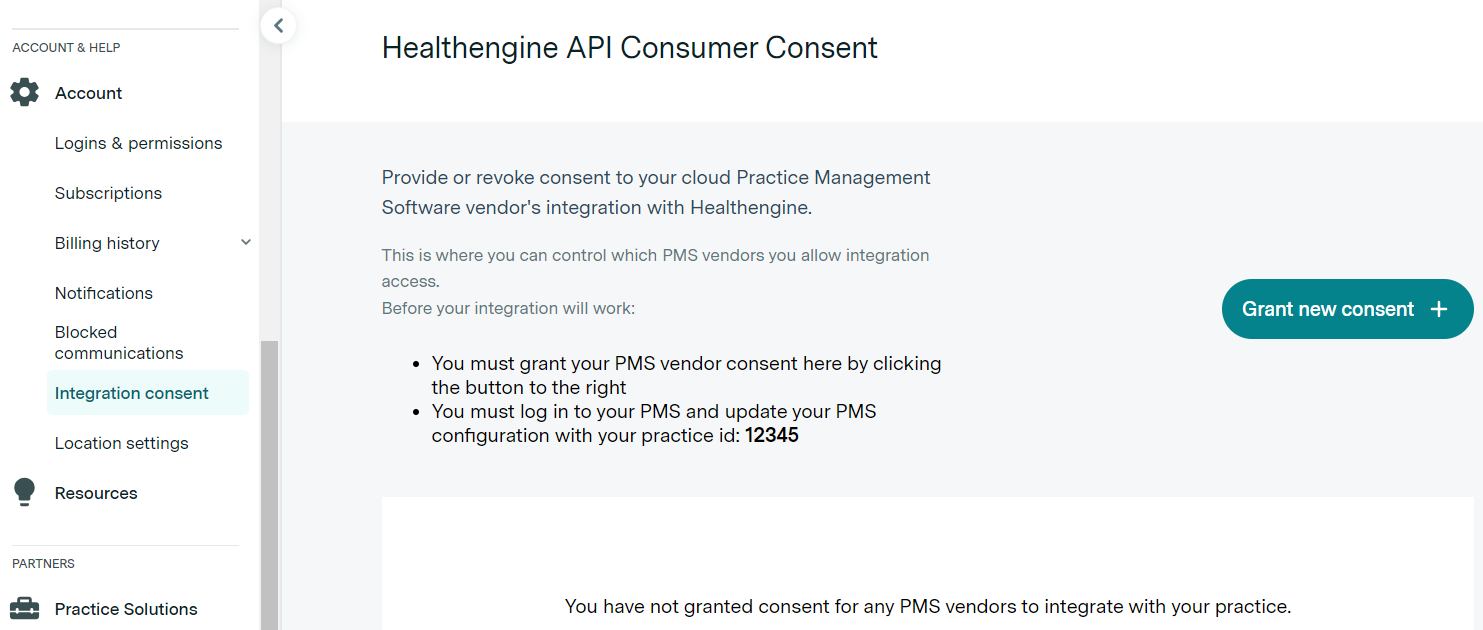
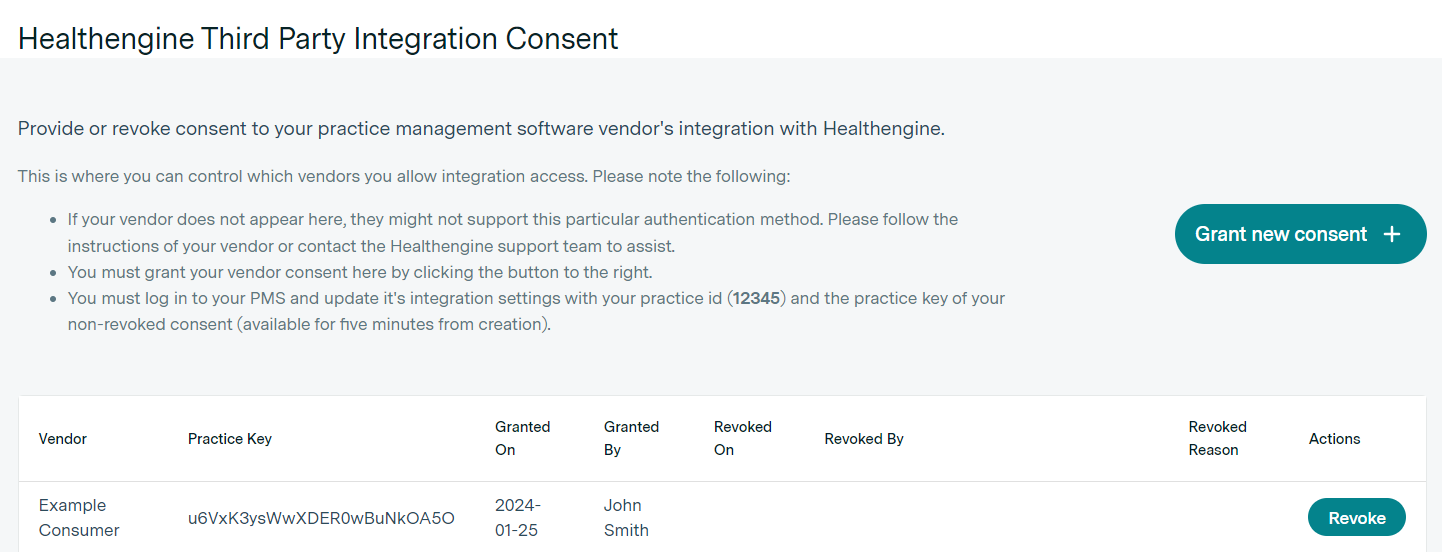
INIT-1542 Update practice consent authentication method process to mention practice-key header

diff --git a/docs/suggested-testing.md b/docs/suggested-testing.md
@@ -10,27 +10,27 @@ To ensure the seamless functioning of this integration, we strongly advise condu
 
 ## Linking a PMS account to one or more Healthengine practices
 
-Once a practice using Healthengine has granted consent for you to access their data via the Healthengine Practice Admin portal or by contacting Healthengine support, you should establish a method for the practice to share their Healthengine practice ID with you. This ID is essential for initiating the data synchronisation process with Healthengine.
+Once a practice using Healthengine has granted consent for you to access their data via the Healthengine Practice Admin portal or by contacting Healthengine support, you should establish a method for the practice to share their Healthengine practice ID and practice key with you. These credentials are essential for initiating the data synchronisation process with Healthengine.
 
 **Scenario: Linking the PMS account with a Healthengine practice**  
 **Given** the presence of a PMS account  
-**When** a Healthengine practice ID is supplied  
+**When** a Healthengine practice ID and practice key are supplied  
 **Then** an effort to transmit practice configuration to Healthengine must be initiated
 
-**Scenario: Practice provides Healthengine practice ID without prior consent**  
-**Given**  a PMS account in which a Healthengine practice ID has been provided  
+**Scenario: Practice provides Healthengine practice ID and practice key without consent or for a revoked consent**  
+**Given**  a PMS account in which a practice ID and practice key have been provided which do not belong to a non-revoked consent for your consumer
 **When** a 403 Unauthorized response is received upon attempting to transmit practice configuration  
 **Then** the PMS user must be informed and guided to establish consent within Healthengine
 
 **Scenario: Integration of PMS Account with multi-location support**  
-**Given** a PMS account capable of accommodating multiple locations  
+**Given** a PMS account capable of accommodating multiple PMS locations  
 **When** these locations are represented as distinct Healthengine practices  
-**Then**  it should be feasible to input multiple Healthengine practice IDs and associate an ID with one or more locations
+**Then**  it should be feasible to input multiple Healthengine practice ID and practice key combinations and associate each one with one or more PMS locations
 
 **Scenario: Updating a Healthengine practice ID for a PMS account or location**  
-**Given** a PMS account or location with a previously assigned Healthengine practice ID for integration purposes  
-**When** the Healthengine practice ID is updated  
-**Then** practice configuration must be established for the new Healthengine practice ID, and data transmission should cease for the previous Healthengine practice ID
+**Given** a PMS account or location with a previously assigned Healthengine practice ID and practice key for integration purposes  
+**When** the Healthengine practice ID and practice key are updated  
+**Then** practice configuration must be established for the new Healthengine practice, and data transmission should cease for the previous Healthengine practice
 
 ---
 
@@ -46,7 +46,7 @@ It is important to note that for snapshot endpoints, the absence of an item in t
 
 **Scenario: Initial configuration synchronisation**  
 **Given** the presence of a PMS account or location  
-**When** a new Healthengine practice ID is supplied  
+**When** a new Healthengine practice ID and practice key are supplied  
 **Then** the following components must be provided: a liveness contract, a resource snapshot, and an appointment type snapshot
 
 **Scenario: Updating liveness contract times in the PMS**  

diff --git a/docs/quick-start-guide.md b/docs/quick-start-guide.md
@@ -35,19 +35,20 @@ All interactions using the API key are conducted over HTTPS for security.
 To gain access to a practice's Healthengine profile and data, the practice administrator must grant consent.
 
 This can be accomplished by the practice administrator following these steps:
-1. Contacting the Healthengine support team via phone at 1300 377 639 or email at support@healthengine.com.au to enable access to the PMS API
-2. Visiting the Healthengine API Consumer Consent page within the [Healthengine Practice Admin](https://healthengine.com.au/appointment/admin) portal
-3. Clicking the 'Grant new consent' button and selecting your API consumer as the integration vendor
+1. Contacting the Healthengine support team via phone at 1300 377 639 or email at support@healthengine.com.au to enable access to the PMS API  
+2. Visiting the Healthengine API Consumer Consent page within the [Healthengine Practice Admin](https://healthengine.com.au/appointment/admin) portal  
+3. Clicking the 'Grant new consent' button and selecting your API consumer as the integration vendor  
+4. Retrieving the supplied practice ID and practice key on consent grant success  
 
 ![Granting consent via the practice admin integration consent page](../assets/quick-start-guide/grant-consent.png)
 
-Once consent is granted, you will need to provide a way for the practice to provide you with their Healthengine practice ID, which you can use to link it to a PMS account or location.
+Once consent is granted, you will need to provide a way for the practice to provide you with their Healthengine practice ID and practice key, which you can use to link the practice to a PMS account or location.
 
 ---
 
 ## Syncing practice configuration
 
-Once a practice has granted your consent and has provided their practice ID, some initial configuration must be supplied before attempting to sync available appointments and bookings.
+Once a practice has granted you consent and has provided you their practice ID and practice key, some initial configuration must be supplied before attempting to sync available appointments and bookings.
 
 This configuration data should be transmitted both when a new Healthengine practice ID is associated with a PMS account or location and whenever there are updates to the corresponding data within the PMS.
 
